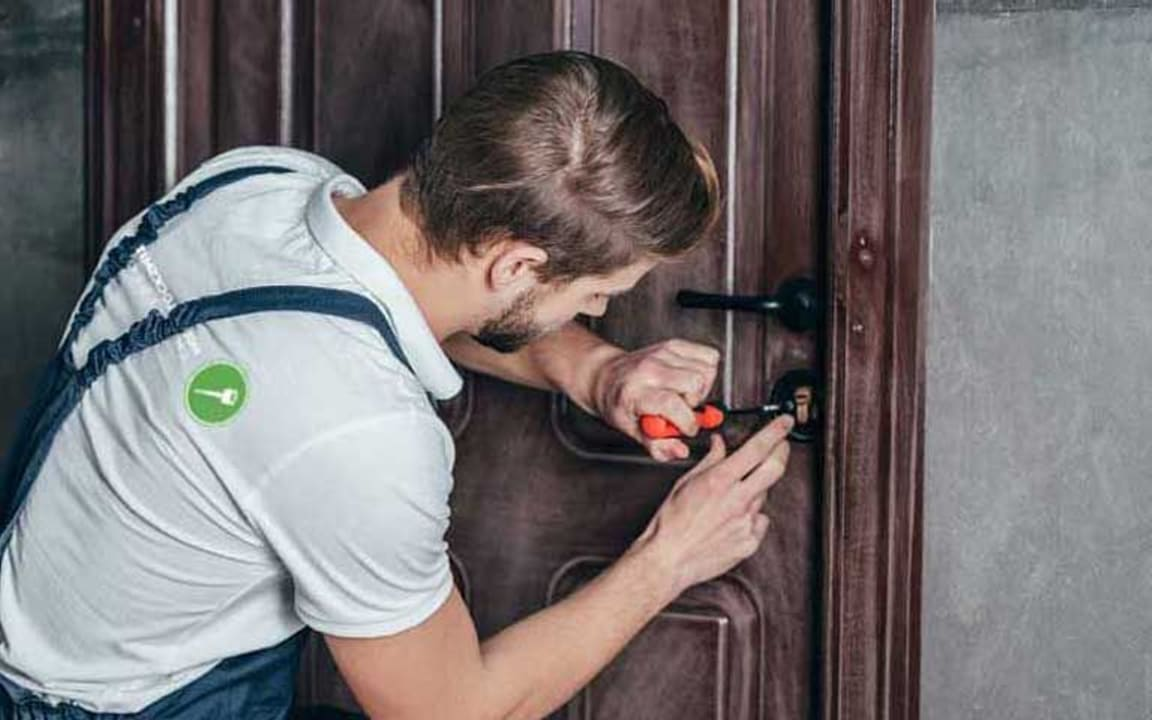
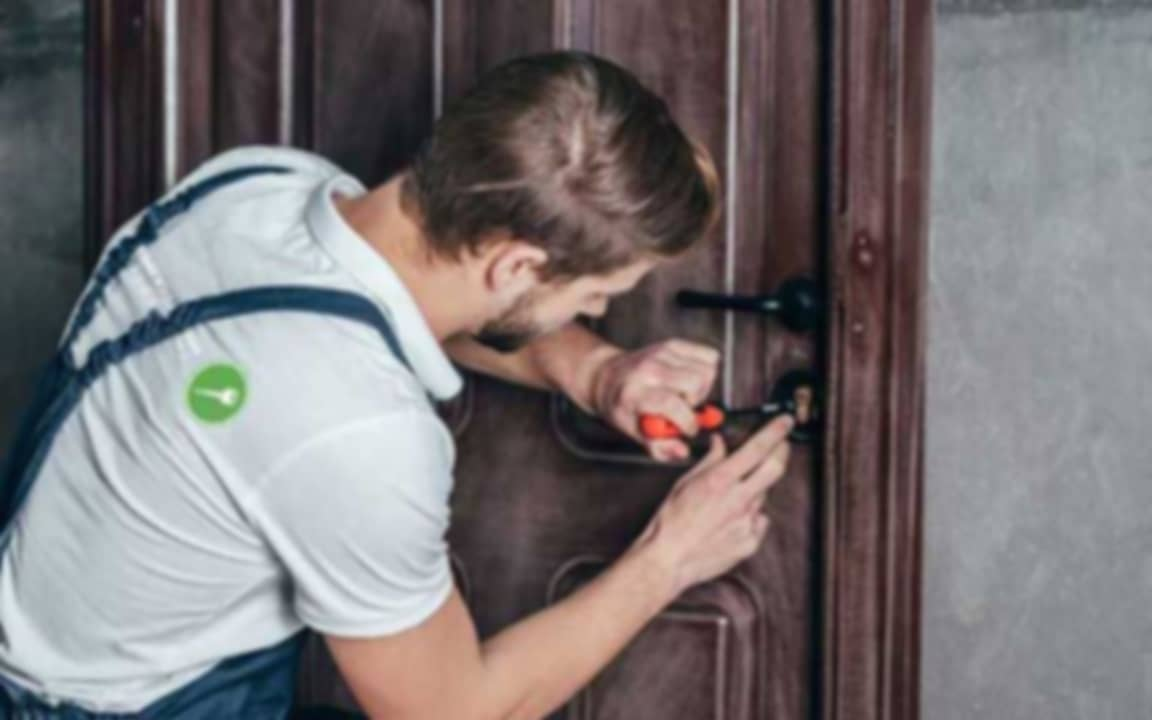
Soften hero photo with a baked-in blur
Add an optional blur step to the image script and use it on the
low-resolution hero photo, with a slightly darker overlay.

Claude-Session: https://claude.ai/code/session_017UGj3nidV8s2y3SJsx5TVn

diff --git a/src/lib/image-blur.ts b/src/lib/image-blur.ts
@@ -9,7 +9,7 @@ export const blurData: Record<string, string> = {
[8 lines of base64/hex data omitted]

diff --git a/src/components/sections/Hero.tsx b/src/components/sections/Hero.tsx
@@ -19,7 +19,7 @@ export default function Hero() {
         className="-z-10 object-cover object-[60%_30%] lg:object-[0%_22%]"
       />
       <div
-        className="absolute inset-0 -z-10 bg-gradient-to-l from-ink via-ink/85 to-ink/25"
+        className="absolute inset-0 -z-10 bg-gradient-to-l from-ink via-ink/85 to-ink/45"
         aria-hidden
       />
       <div className="mx-auto flex min-h-[calc(100svh-68px)] max-w-6xl flex-col justify-center px-4 py-16 sm:min-h-[640px] lg:py-24">
